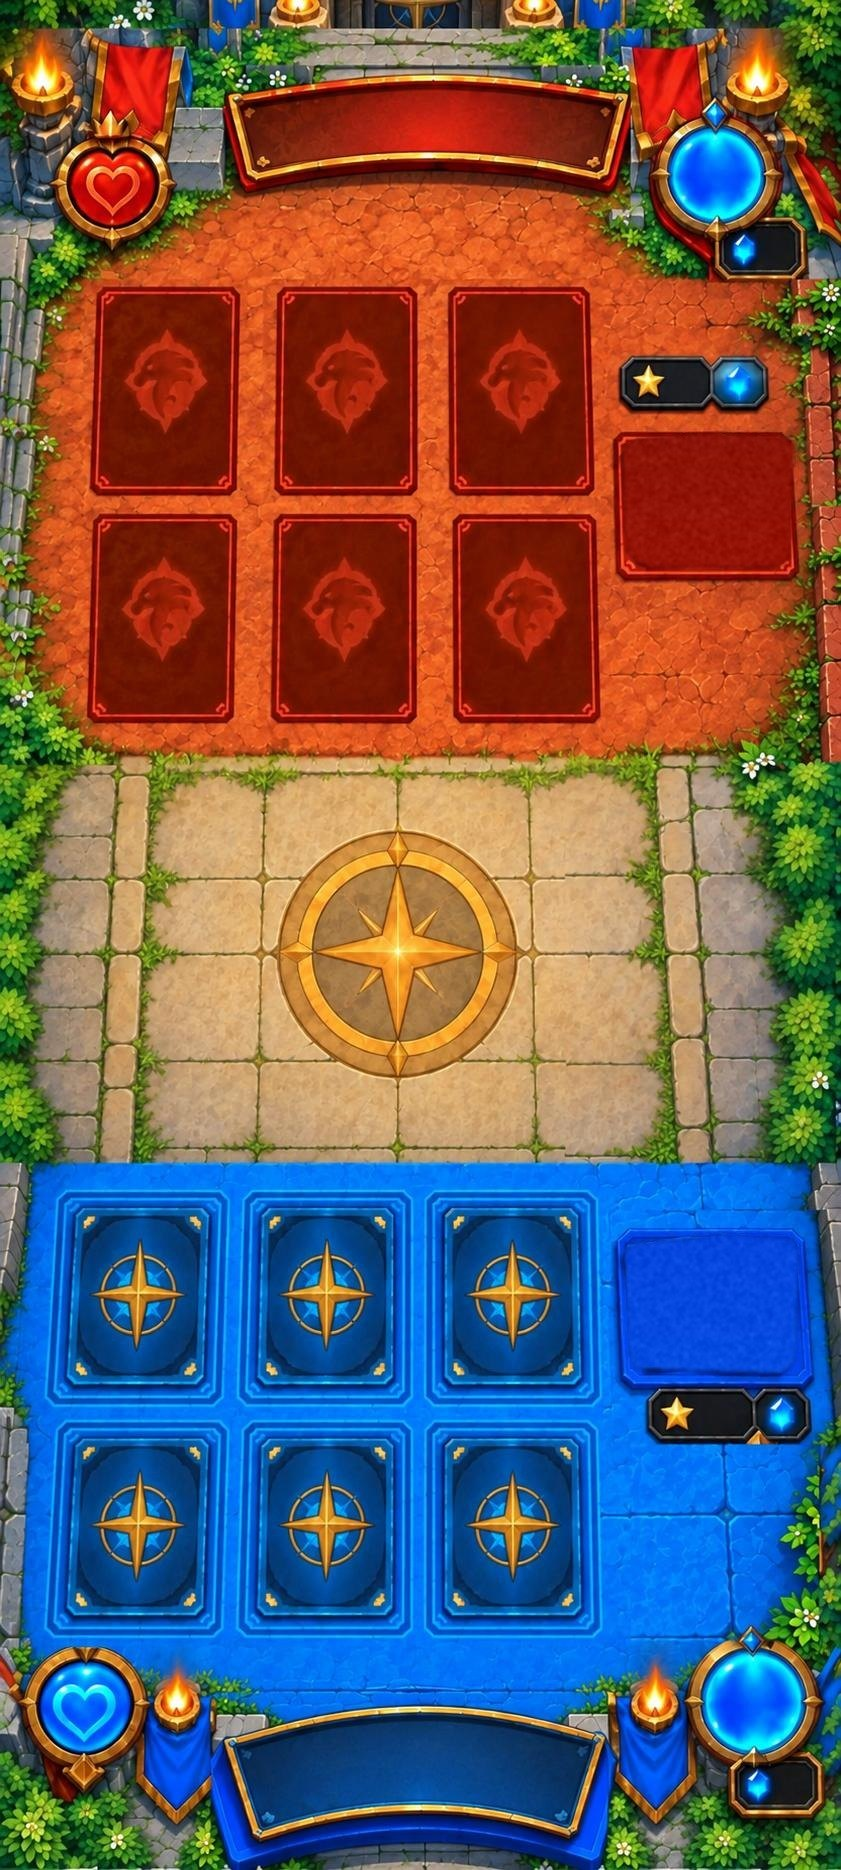
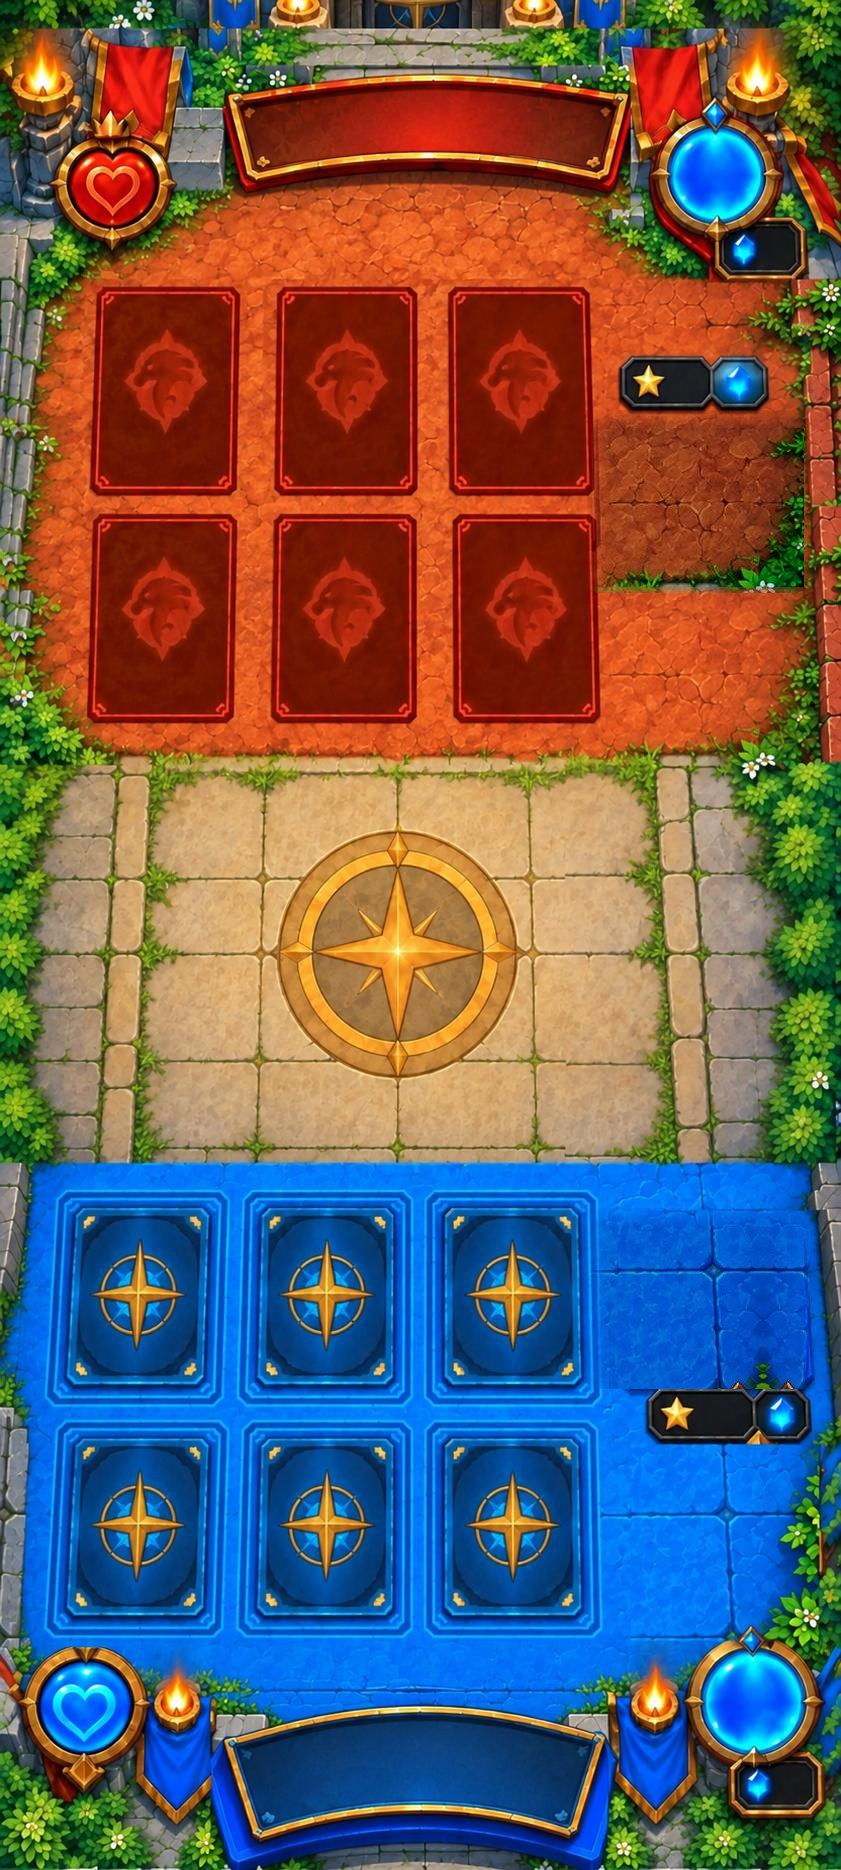
Bốc bài: bỏ bệ đá của xấp, lá xấp to gần bằng lá sân
Claude-Session: https://claude.ai/code/session_01XgSG6Z9xW8491CKVgy52Z1

Changed region(s): [[0.6801, 0.2171, 0.9584, 0.3412], [0.7111, 0.6513, 0.9584, 0.7444]]

diff --git a/src/components/game/draw-flights.tsx b/src/components/game/draw-flights.tsx
@@ -11,7 +11,9 @@ function Flight({ flight, onDone }: { flight: DrawFlight; onDone: (id: number) =
     const el = ref.current;
     if (!el) return;
     const mine = flight.side === "you";
-    const from = document.querySelector(mine ? ".face-pile" : ".foe-pile")?.getBoundingClientRect();
+    const pile = document.querySelector(mine ? ".face-pile" : ".foe-pile");
+    // Lá bay ra từ mặt xấp (lá trên cùng); xấp hết bài thì từ chỗ để xấp.
+    const from = (pile?.querySelector(".deck-pile img:last-child") ?? pile)?.getBoundingClientRect();
     const cards = mine ? document.querySelectorAll<HTMLElement>(".hand .hand-card") : null;
     const target = cards && cards.length ? cards[Math.max(0, cards.length - 1 - flight.slot)] : null;
     const fan = mine ? null : document.querySelector(".foe-fan");
@@ -20,7 +22,7 @@ function Flight({ flight, onDone }: { flight: DrawFlight; onDone: (id: number) =
       onDone(flight.id);
       return;
     }
-    const ph = from.height * 0.9;
+    const ph = from.height;
     const pw = ph * 0.656;
     const fx = from.left + from.width / 2;
     const fy = from.top + from.height / 2;

diff --git a/src/styles.css b/src/styles.css
@@ -11760,12 +11760,14 @@ button.watch-back {
   pointer-events: none;
 }
 .face-pile b { position: relative; z-index: 1; }
+.face-pile .deck-pile { transform: translateY(-4%); }
 .deck-pile img {
   position: absolute;
   left: 50%;
   top: 50%;
-  height: 90%;
-  width: auto;
+  /* Nhỏ hơn lá trên sân một chút (lá sân rộng 15,4% bàn). */
+  width: 13.1cqw;
+  height: auto;
   aspect-ratio: 400 / 610;
   transform: translate(calc(-50% + var(--down) * -0.16em), calc(-50% + var(--down) * 0.28em)) rotate(var(--tilt));
   filter: brightness(calc(1 - var(--down) * 0.07)) drop-shadow(0 0.08em 0.1em rgba(0, 0, 0, 0.5));
@@ -11773,7 +11775,7 @@ button.watch-back {
 .foe-pile {
   position: absolute;
   z-index: 3;
-  transform: translate(-50%, -50%);
+  transform: translate(-50%, -44%);
   pointer-events: none;
 }
 .draw-flight {

diff --git a/TIEP-TUC.md b/TIEP-TUC.md
@@ -236,6 +236,7 @@ Chủ game trả lời (29/10), CHƯA LÀM gì, chờ "ok" và trả lời câu 
 - Việc sắp làm: lá úp bay từ xấp lên tay (mình) hoặc vào băng rôn đỏ (đối thủ), ~0,45 giây, tiếng `draw` hiện có, đầu trận (3 lá lần lượt) và mỗi vòng (1 lá). Chỉ hiển thị, không đụng luật. Video tham khảo `818aa7be…mp4` (game khác, chỉ học nhịp). Chủ game chốt: C1 chỉ bay xấp → tay; C2 cả hai bên; C3 không phân biệt quái/phép; C4 giữ úp lúc bay; C5 dùng tiếng `draw`; C6 cả đầu trận và mỗi vòng.
 - Xấp bài (chủ game hỏi, Claude khuyên, chủ game duyệt kế hoạch): xấp hiện là hình in sẵn 3 lá xoè trên ô lõm của ảnh bàn; GIỮ Ô, BỎ 3 lá in sẵn thành ô trống, xấp do code vẽ dày theo `pileLeft` (hết thì ô trống), lá bay ra từ mặt xấp. Cần ảnh bàn có ô trống (`board-full.jpg`, kiểm `board-floor.jpg`).
 - Các bước: (1) ảnh bàn ô trống; (2) xấp CSS tại `.face-pile` và `foeHand`; (3) lá bay úp (nhận biết rút `drew` ở play.tsx; đầu trận sau màn VS + đổi bài, `duel.opener` null); (4) âm `playCue("draw")`; (5) `PENDING_NOTES` + file này. Kiểm tra: Chromium (rút 1 lá, đầu trận, máy rút, bàn cắt VH 740, xấp 1 và 0 lá), `node scripts/round-rules.mjs`.
+- CHỦ GAME SỬA (30/10): "Bỏ luôn phần bệ đá, cho lá bài to bằng lá trên sân hoặc nhỏ hơn 1 chút, đặt ở vị trí hợp lý" → ĐÃ LÀM: `board-full.jpg` bỏ cả bệ đá (vá bằng nền đá cùng bên: đỏ lấy từ dưới, xanh lấy từ dưới huy hiệu sao, trộn mép; còn thấy mờ mờ chỗ vá khi phóng to, nếu chủ game có ảnh bàn gốc không bệ thì thay), lá xấp rộng 13,1cqw (lá sân 15,4%), xấp mình nhích lên 4%, xấp địch hạ 0,44 để khỏi đè ô sao; lá bay lấy cỡ và chỗ xuất phát từ lá trên cùng của xấp. Bản trước: ô lõm trống + xấp nhỏ.
 - ĐÃ LÀM (Sonnet medium): `public/board-full.jpg` bỏ 3 lá in sẵn của 2 xấp, ô trống tự vá bằng màu phẳng + nhiễu (script scratchpad `draw/` dùng opencv; bản gốc giữ ở scratchpad `board-full.orig.jpg`, nếu chủ game có ảnh bàn gốc ô trống thì thay được); `src/components/game/deck-pile.tsx` (`DeckPile`: mỗi 4 lá còn trong xấp thêm 1 lớp, tối đa 6, hết bài thì ô trống; số lá `.face-pile b` đặt z-index 1 trên xấp; xấp địch `.foe-pile` đặt tại mark `foeHand`, cỡ `board.stack`); `src/components/game/draw-flights.tsx` (`DrawFlights`: lá úp `card-back.webp` bay 0,46 giây theo cung từ xấp tới lá cuối tay (mình, lá thật ẩn tới lúc lá bay tới) hoặc `.foe-fan` (địch); portal ra body; StrictMode: cleanup phải gỡ `onfinish`/`oncancel` trước `cancel`); play.tsx: state `flights`, rút (`draws` tăng, khi `loaded` và không còn `duel.opener`) sinh lá bay; hết bảng đổi bài đầu trận (`openerOpen` true → false) 3 lá mỗi bên bay lần lượt cách 0,15 giây + 3 tiếng `draw`; chế độ Test/Hướng dẫn không có đợt đầu trận. Tiếng rút giữ `draw` cũ. Thử Chromium (scratchpad `draw/mid.mjs <thư mục> [VH]`, `open2.mjs`): rút 1 lá, đầu trận Vs Máy 6 lá bay, bàn cắt VH 740 đều chạy. Lưu ý: lá úp trong xấp là `card-back.webp` (nền tối + sư tử) khác lưng xanh la bàn từng in trên bàn; xấp chỉ 1 chồng hẹp (không xoè 3 lá như hình in cũ). CHƯA thử: xấp 0 và 1 lá bằng mắt, nghe âm, điện thoại thật.
 - ĐỀ XUẤT MÔ HÌNH VÀ NỖ LỰC: Sonnet 5.5, medium (chỉ hiển thị React + CSS; ảnh bàn ô trống là chỗ khó nhất). Làm xong thì DỪNG, báo lại, chờ chủ game duyệt mô hình cho phần kế.
 
